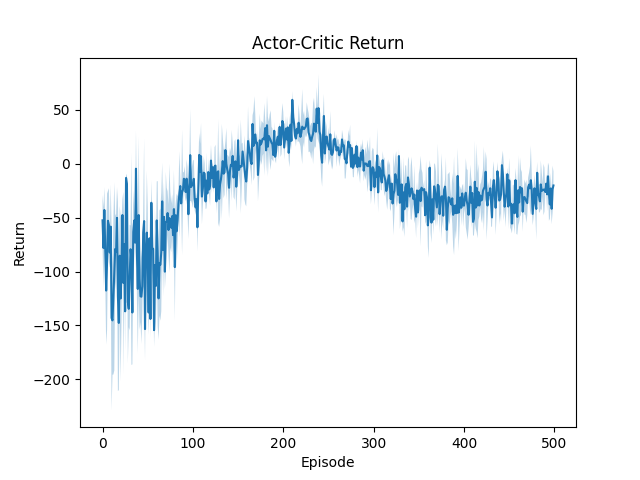
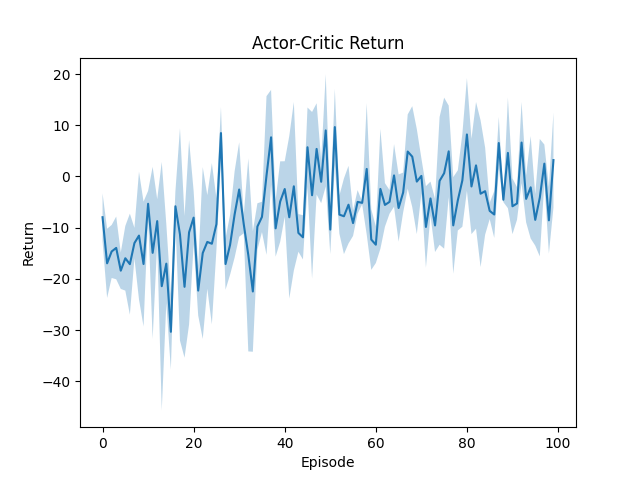
refactor

diff --git a/AC/Actor_Critic_Simple.py b/AC/Actor_Critic_Simple.py
@@ -5,24 +5,26 @@ import gymnasium as gym
 import haiku as hk
 import jax.nn as nn
 import jax.random as random
-import matplotlib.pyplot as plt
 import numpy as np
 import optax
-import seaborn as sns
 from jax import grad, jit, tree_map
 from tqdm import tqdm
-from AC.model import Actor, Critic
+
+from AC.model import policy_fn, val_fn
+from AC.plot_utils import plot_return, plot_tde
 
 dir_path = os.path.dirname(os.path.realpath(__file__))
-gamma = 0.99
+gamma = 0.95
 alpha_critic = 3e-4
 alpha_actor = 2e-4
-episodes = 500
+episodes = 100
 num_runs = 3
 env = gym.make('LunarLander-v2')
 
 
 actor = hk.without_apply_rng(hk.transform(policy_fn))
+critic = hk.without_apply_rng(hk.transform(val_fn))
+predict = jit(critic.apply)
 
 
 def value_loss(params, obs, G):
@@ -31,8 +33,7 @@ def value_loss(params, obs, G):
     return tde**2, tde
 
 
-value_loss_grad_and_tde = jit(grad(value_loss,
-                                   has_aux=True))
+value_loss_grad_and_tde = jit(grad(value_loss, has_aux=True))
 
 
 def log_prob_action(params, obs, rng_key):
@@ -42,8 +43,7 @@ def log_prob_action(params, obs, rng_key):
     return -log_prob[a], a
 
 
-log_prob_grad_and_action = jit(grad(log_prob_action,
-                                    has_aux=True))
+log_prob_grad_and_action = jit(grad(log_prob_action, has_aux=True))
 
 actor_opt = optax.adam(alpha_actor)
 critic_opt = optax.adam(alpha_critic)
@@ -61,10 +61,6 @@ def update_actor(params, opt_state, grad):
     updates, new_opt_state = actor_opt.update(grad, opt_state)
     new_params = optax.apply_updates(params, updates)
     return new_params, new_opt_state
-
-
-critic = hk.without_apply_rng(hk.transform(val_fn))
-predict = jit(critic.apply)
 
 
 runs = []
@@ -132,27 +128,9 @@ env.close()
 runs = np.array(runs)
 runs_mean = np.mean(runs, axis=0)
 runs_std = np.std(runs, axis=0)
-
-plt.figure()
-sns.lineplot(x=np.arange(episodes), y=runs_mean)
-upper_bound = runs_mean + runs_std
-lower_bound = runs_mean - runs_std
-plt.fill_between(np.arange(episodes), upper_bound, lower_bound, alpha=0.3)
-plt.title('Actor-Critic Return')
-plt.xlabel('Episode')
-plt.ylabel('Return')
-plt.savefig(os.path.join(dir_path, 'Actor_Critic_Return.png'))
+plot_return(runs_mean, runs_std, episodes, dir_path)
 
 tdes_over_runs = np.array(tde_over_runs)
 tdes_mean = np.mean(tdes_over_runs, axis=0)
 tdes_std = np.std(tdes_over_runs, axis=0)
-
-plt.figure()
-sns.lineplot(x=np.arange(episodes), y=tdes_mean)
-upper_bound = tdes_mean + tdes_std
-lower_bound = tdes_mean - tdes_std
-plt.fill_between(np.arange(episodes), upper_bound, lower_bound, alpha=0.3)
-plt.title('Actor-Critic TD Error')
-plt.xlabel('Episode')
-plt.ylabel('Sum of TD Error')
-plt.savefig(os.path.join(dir_path, 'Actor_Critic_TD_Error.png'))
+plot_tde(tdes_mean, tdes_std, episodes, dir_path)

diff --git a/AC/plot_utils.py b/AC/plot_utils.py
@@ -1,0 +1,37 @@
+import os
+
+import matplotlib.pyplot as plt
+import numpy as np
+import seaborn as sns
+
+
+def plot_return(runs_mean: np.ndarray,
+                runs_std: np.ndarray,
+                episodes: int,
+                path: str):
+    fig = plt.figure()
+    sns.lineplot(x=np.arange(episodes), y=runs_mean)
+    upper_bound = runs_mean + runs_std
+    lower_bound = runs_mean - runs_std
+    plt.fill_between(np.arange(episodes), upper_bound, lower_bound, alpha=0.3)
+    plt.title('Actor-Critic Return')
+    plt.xlabel('Episode')
+    plt.ylabel('Return')
+    plt.savefig(os.path.join(path, 'Actor_Critic_Return.png'))
+    plt.close(fig)
+
+
+def plot_tde(tdes_mean: np.ndarray,
+             tdes_std: np.ndarray,
+             episodes: int,
+             path: str):
+    fig = plt.figure()
+    sns.lineplot(x=np.arange(episodes), y=tdes_mean)
+    upper_bound = tdes_mean + tdes_std
+    lower_bound = tdes_mean - tdes_std
+    plt.fill_between(np.arange(episodes), upper_bound, lower_bound, alpha=0.3)
+    plt.title('Actor-Critic TD Error')
+    plt.xlabel('Episode')
+    plt.ylabel('Sum of TD Error')
+    plt.savefig(os.path.join(path, 'Actor_Critic_TD_Error.png'))
+    plt.close(fig)
